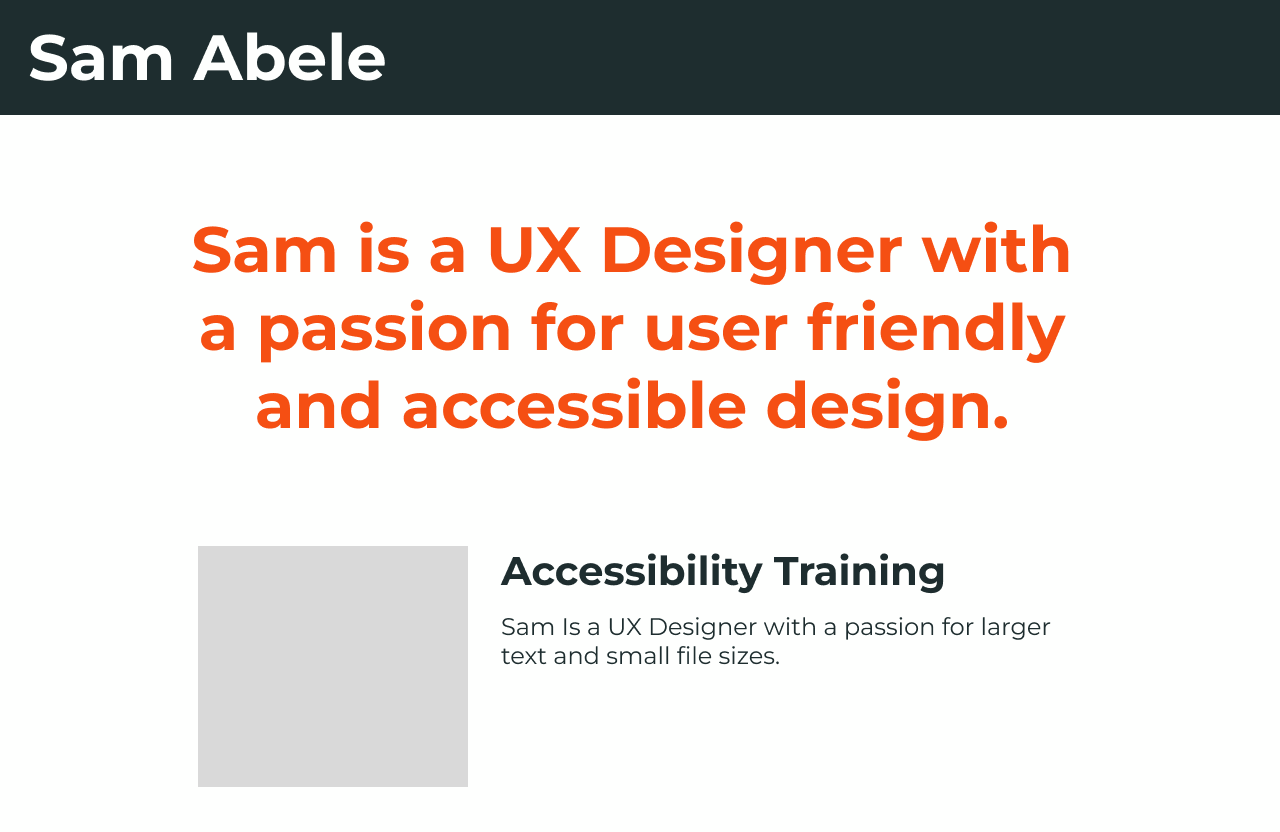
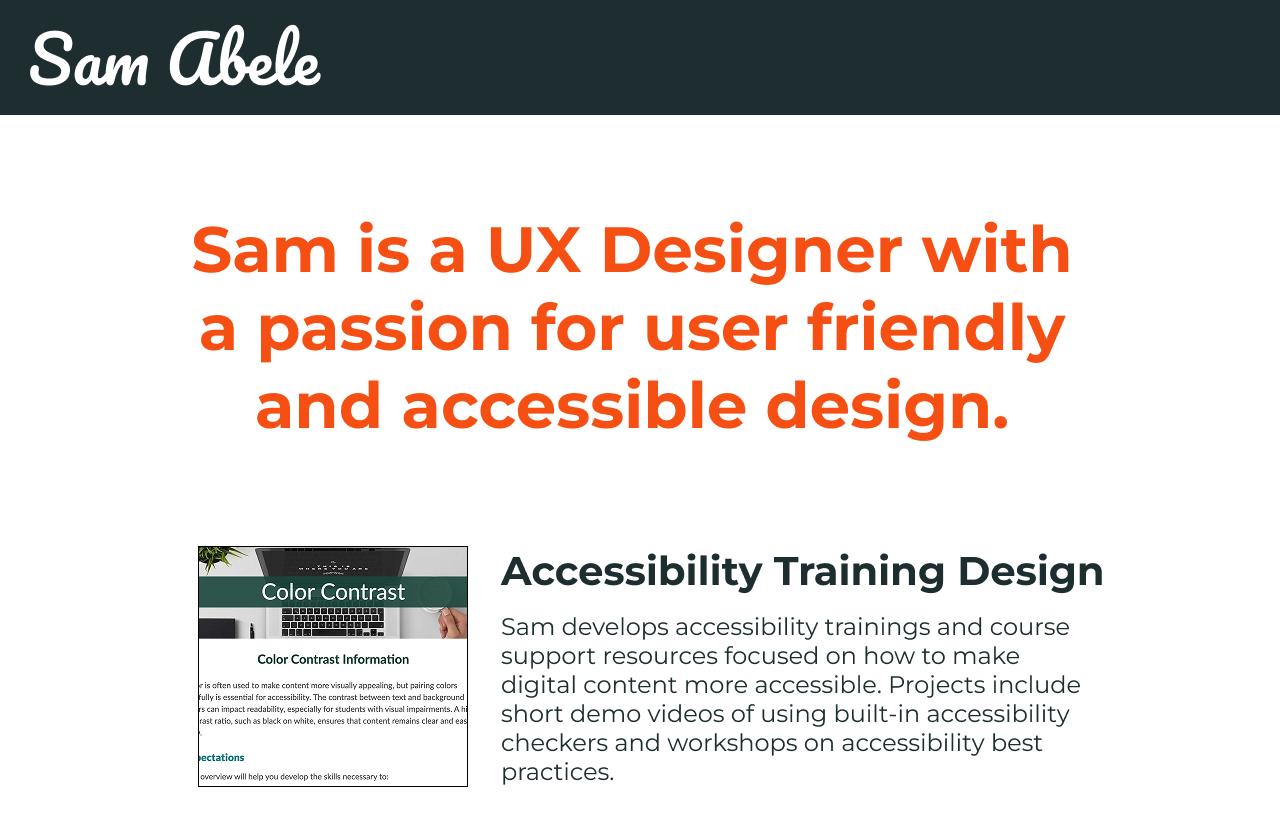
added Figma PNG

Changed region(s): [[0.1562, 0.6562, 0.8438, 0.9688], [0.0, 0.0312, 0.3125, 0.125], [0.75, 0.6562, 0.875, 0.7188]]

diff --git a/screen.css b/screen.css
@@ -13,13 +13,16 @@ header {
 h1 {
     margin: 0 auto;
     color: #FEFFFE;
-    font-family: Arial;
+    font-family: "Brush Script MT", cursive, Arial, sans-serif;
     font-size: 60px;
     font-weight: bold;
 }
 
 p {
-    margin: 0;
+    margin: 0 auto;
+    font-family: Arial;
+    font-size: 24px;
+    Padding-top: 10px;
 }
 
 h2 {
@@ -30,6 +33,13 @@ h2 {
     text-align: center;
 }
 
+h3 {
+    margin: 0 auto;
+    font-family: Arial;
+    font-size: 40px;
+    font-weight: bold;
+}
+
 .info {
     margin: 0 auto;
     padding-top:50px;
@@ -38,4 +48,15 @@ h2 {
 
 img {
     height: 240px;
+    float: left;
+    margin-right: 20px;
+    margin-bottom: 30px;
+}
+
+.project {
+    width: 900px;
+    margin: 0 auto;
+    color: #1E2D2F;
+    font-family: Arial;
+    padding-top: 20px;
 }

diff --git a/index.html b/index.html
@@ -14,7 +14,7 @@
       <section class="info">
       <h2>Sam is a UX Designer with a passion for user friendly and accessible design.</h2>
       </section>
-      <section>
+      <section class="project">
         <img alt="Project snapshot" src="example.png"/>
         <h3>Accessibility Training Design</h3>
         <p>Sam develops accessibility trainings and course support resources focused on how to make digital content more accessible. Projects include short demo videos of using built-in accessibility checkers and workshops on accessibility best practices.</p>
